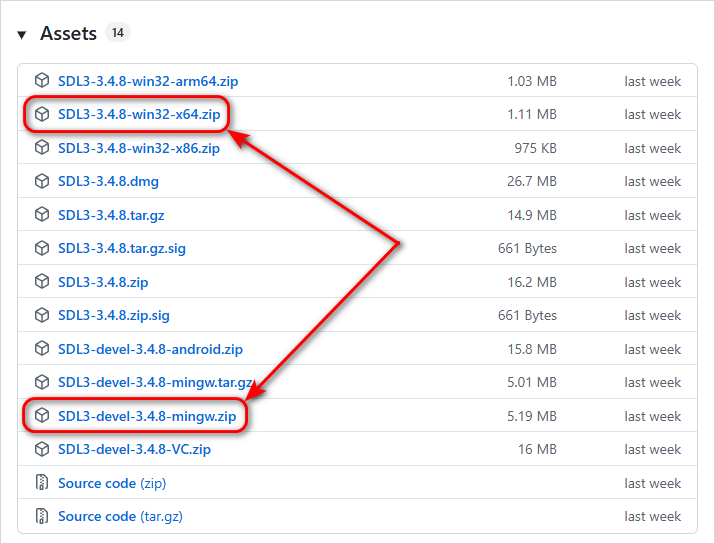
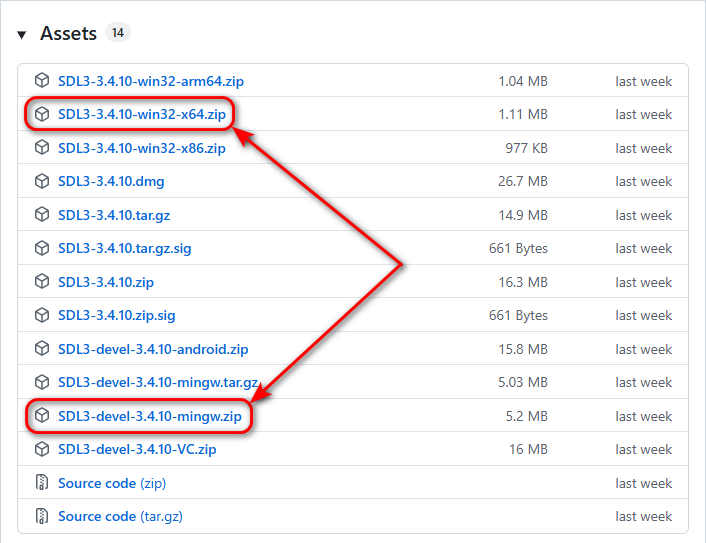
Updated SDL to 3.4.10

diff --git a/tutorials/sdl3-renderer/mingw/setting-up-sdl3-mingw/index.html b/tutorials/sdl3-renderer/mingw/setting-up-sdl3-mingw/index.html
@@ -210,42 +210,42 @@
     </div>
 
     <h3 class="category-header">
-        <span class="data-en">1. Obtain SDL 3.4.8</span>
-        <span class="data-ru">1. Получение SDL 3.4.8</span>
+        <span class="data-en">1. Obtain SDL 3.4.10</span>
+        <span class="data-ru">1. Получение SDL 3.4.10</span>
     </h3>
 
     <ul>
         <li>
             <span class="data-en">
-                Download two archives from the <a href="https://github.com/libsdl-org/SDL/releases/tag/release-3.4.8" target="_blank" rel="noopener noreferrer">official release page</a>:
+                Download two archives from the <a href="https://github.com/libsdl-org/SDL/releases/tag/release-3.4.10" target="_blank" rel="noopener noreferrer">official release page</a>:
             </span>
             <span class="data-ru">
-                Скачайте два архива со страницы <a href="https://github.com/libsdl-org/SDL/releases/tag/release-3.4.8" target="_blank" rel="noopener noreferrer">официального релиза</a>:
+                Скачайте два архива со страницы <a href="https://github.com/libsdl-org/SDL/releases/tag/release-3.4.10" target="_blank" rel="noopener noreferrer">официального релиза</a>:
             </span>
             <br>
             <img src="/assets/img/tutorials/sdl3-renderer/mingw/setting-up-sdl3/download-sdl3.png" alt="Download Link" class="img-fluid border rounded mt-3 shadow-sm">
         </li>
         <li>
             <span class="data-en">
-                Extract the <b>SDL3-devel-3.4.8-mingw.zip</b> archive to the <code>C:/libs/SDL3-devel-3.4.8-mingw</code> folder.
+                Extract the <b>SDL3-devel-3.4.10-mingw.zip</b> archive to the <code>C:/libs/SDL3-devel-3.4.10-mingw</code> folder.
             </span>
             <span class="data-ru">
-                Распакуйте архив <b>SDL3-devel-3.4.8-mingw.zip</b> в папку <code>C:/libs/SDL3-devel-3.4.8-mingw</code>.
+                Распакуйте архив <b>SDL3-devel-3.4.10-mingw.zip</b> в папку <code>C:/libs/SDL3-devel-3.4.10-mingw</code>.
             </span>
         </li>
         <li>
             <span class="data-en">
-                Move the headers and libraries so the structure is <code>SDL3-devel-3.4.8-mingw/include</code>, etc:
+                Move the headers and libraries so the structure is <code>SDL3-devel-3.4.10-mingw/include</code>, etc:
             </span>
             <span class="data-ru">
-                Переместите заголовочные файлы и библиотеки так, чтобы структура папок была <code>SDL3-devel-3.4.8-mingw/include</code> и т. д.:
+                Переместите заголовочные файлы и библиотеки так, чтобы структура папок была <code>SDL3-devel-3.4.10-mingw/include</code> и т. д.:
             </span>
             <br>
             <img src="/assets/img/tutorials/sdl3-renderer/mingw/setting-up-sdl3/setting-up-sdl3-1.png" alt="Folder structure Link" class="img-fluid border rounded mt-3 shadow-sm">
         </li>
         <li>
-            <span class="data-en">Extract the <b>SDL3-3.4.8-win32-x64.zip</b> archive so the path is exactly <code>C:/libs/SDL3-3.4.8-win32-x64</code>:</span>
-            <span class="data-ru">Распакуйте архив <b>SDL3-3.4.8-win32-x64.zip</b> так, чтобы путь был именно <code>C:/libs/SDL3-3.4.8-win32-x64</code>:</span>
+            <span class="data-en">Extract the <b>SDL3-3.4.10-win32-x64.zip</b> archive so the path is exactly <code>C:/libs/SDL3-3.4.10-win32-x64</code>:</span>
+            <span class="data-ru">Распакуйте архив <b>SDL3-3.4.10-win32-x64.zip</b> так, чтобы путь был именно <code>C:/libs/SDL3-3.4.10-win32-x64</code>:</span>
             <br>
             <img src="/assets/img/tutorials/sdl3-renderer/mingw/setting-up-sdl3/setting-up-sdl3-2.png" alt="Folder structure Link" class="img-fluid border rounded mt-3 shadow-sm">
         </li>
@@ -300,7 +300,7 @@
         <span class="data-ru">Чтобы приложения могли находить <code>SDL3.dll</code> файл при запуске, добавьте следующий путь в переменную <b>Path</b> в разделе <b>Переменные среды пользователя</b>:</span>
     </p>
     <div class="bg-light p-3 rounded border-start border-4 border-warning mb-4">
-        <code>C:\libs\SDL3-3.4.8-win32-x64</code>
+        <code>C:\libs\SDL3-3.4.10-win32-x64</code>
     </div>
 
     <h3 class="category-header">
@@ -349,7 +349,7 @@
 cmake_minimum_required(VERSION 3.21)
 project(rectangle-sdl3-c)
 
-set(SDL3_DIR "C:/libs/SDL3-devel-3.4.8-mingw/lib/cmake/SDL3")
+set(SDL3_DIR "C:/libs/SDL3-devel-3.4.10-mingw/lib/cmake/SDL3")
 find_package(SDL3 REQUIRED)
 
 add_executable(app)
@@ -371,7 +371,7 @@ target_link_options(app PRIVATE -mconsole)</code></pre>
 cmake_minimum_required(VERSION 3.21)
 project(rectangle-sdl3-cpp)
 
-set(SDL3_DIR "C:/libs/SDL3-devel-3.4.8-mingw/lib/cmake/SDL3")
+set(SDL3_DIR "C:/libs/SDL3-devel-3.4.10-mingw/lib/cmake/SDL3")
 find_package(SDL3 REQUIRED)
 
 add_executable(app)

diff --git a/tutorials/tools/mingw/setup-mingw/index.html b/tutorials/tools/mingw/setup-mingw/index.html
@@ -215,7 +215,7 @@
         </span>
     </p>
 
-    <div class="ratio ratio-16x9 mb-4 shadow-sm rounded border overflow-hidden">
+    <!-- <div class="ratio ratio-16x9 mb-4 shadow-sm rounded border overflow-hidden">
         <iframe 
             src="https://www.youtube.com/embed/rHXl_gcJ8Zc?rel=0&vq=hd1080&v=1" 
             title="C/C++ Development Environment Setup" 
@@ -223,6 +223,19 @@
             referrerpolicy="strict-origin-when-cross-origin"
             allowfullscreen>
         </iframe>
+    </div> -->
+
+    <div class="row">
+        <div class="col-md-6"> <div class="ratio ratio-16x9 mb-4 shadow-sm rounded border overflow-hidden">
+                <iframe 
+                    src="https://www.youtube.com/embed/rHXl_gcJ8Zc?rel=0&vq=hd1080&v=1" 
+                    title="C/C++ Development Environment Setup" 
+                    allow="accelerometer; autoplay; clipboard-write; encrypted-media; gyroscope; picture-in-picture; web-share" 
+                    referrerpolicy="strict-origin-when-cross-origin"
+                    allowfullscreen>
+                </iframe>
+            </div>
+        </div>
     </div>
 
     <!-- <p class="text-muted mb-5">
